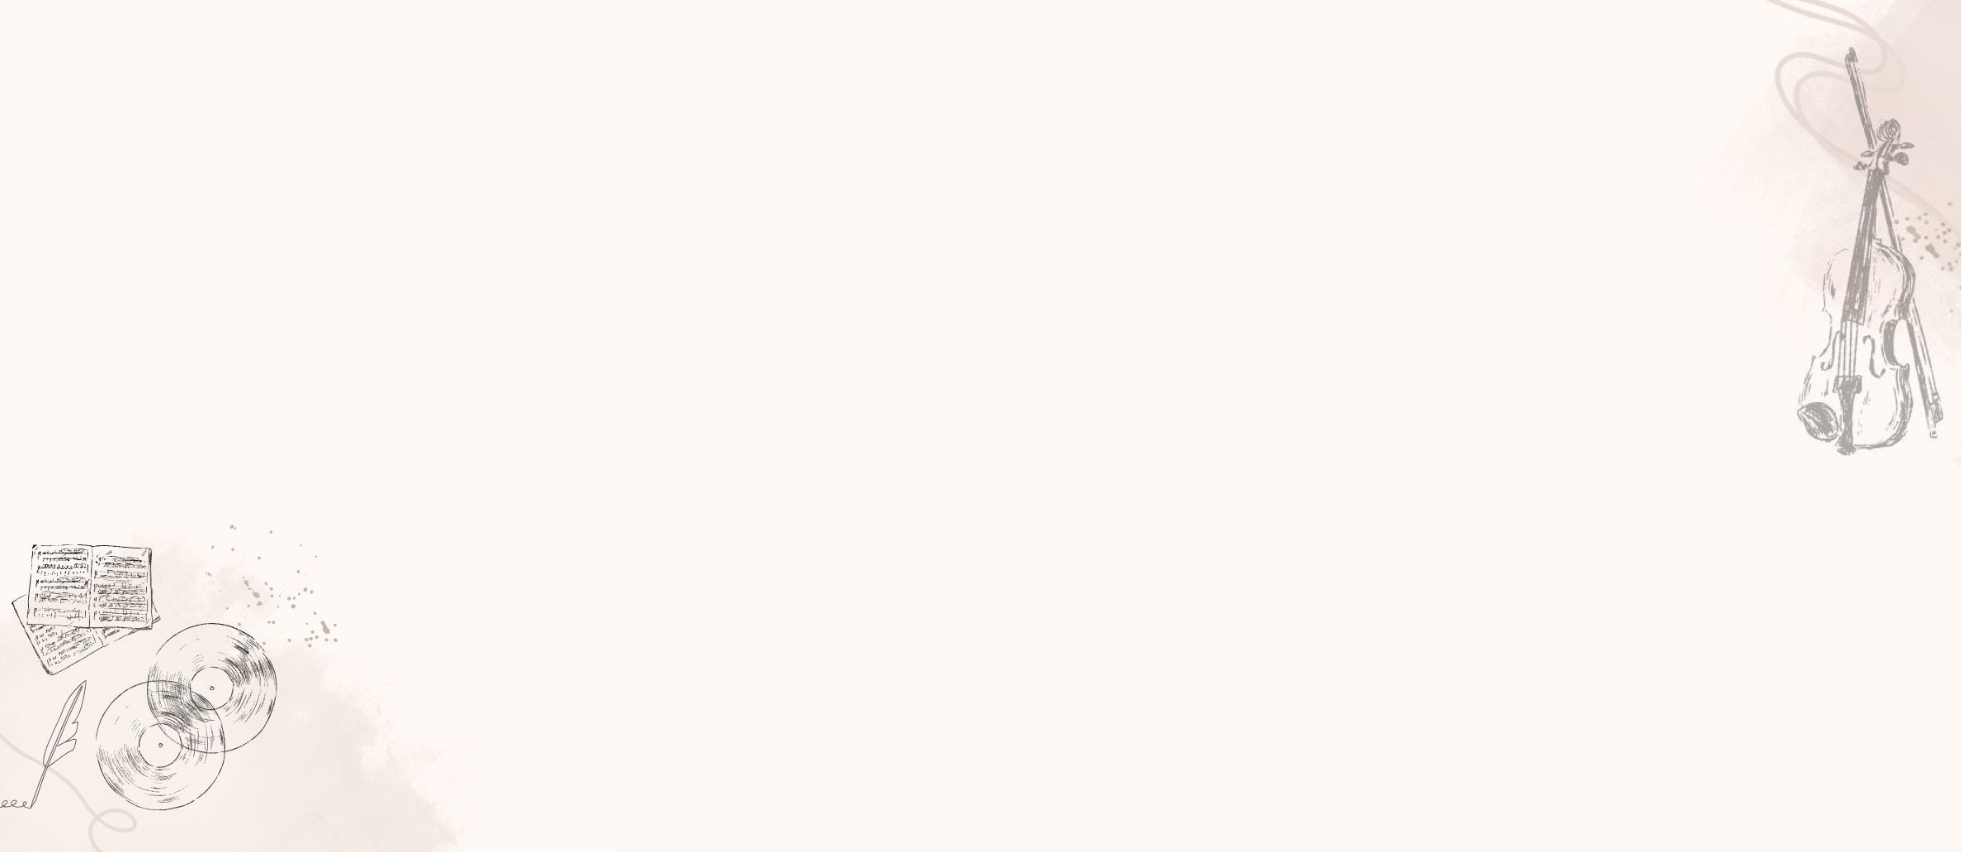
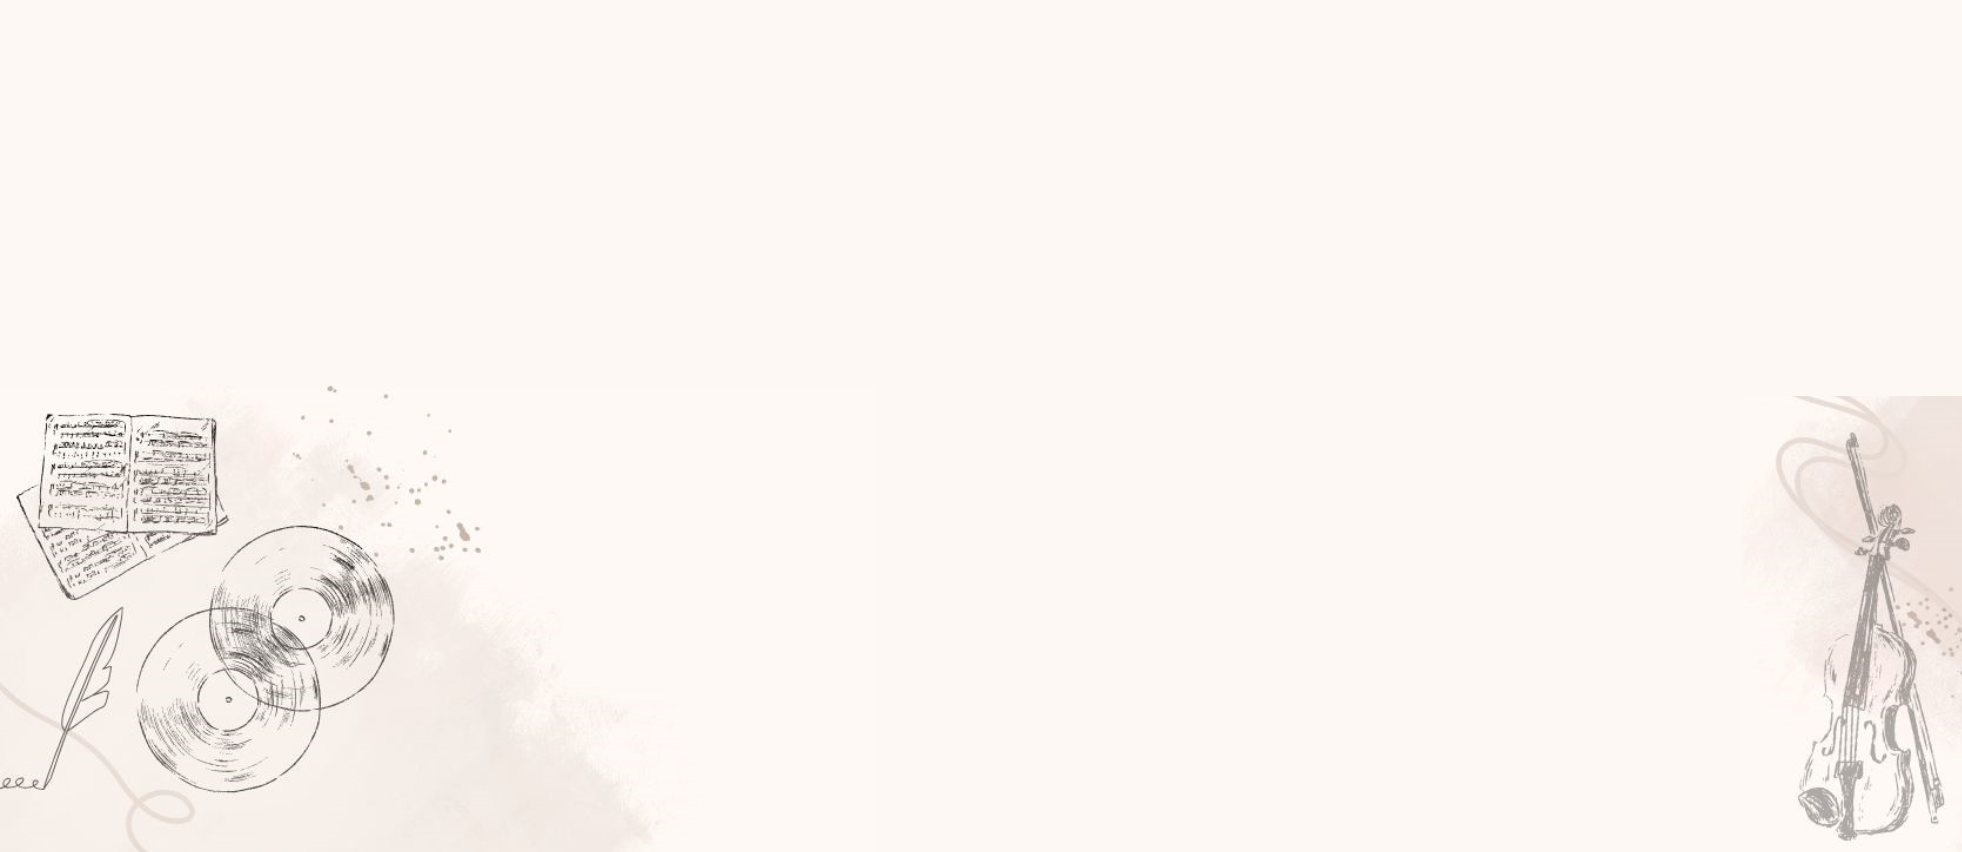
update

Changed region(s): [[0.9016, 0.0, 1.0, 1.0], [0.0, 0.4883, 0.2176, 0.946], [0.2176, 0.6103, 0.2487, 0.6408]]

diff --git a/page3.html b/page3.html
@@ -16,7 +16,7 @@
     </header>
 
     <main> 
-         <img class="bandeau3" src="">
+         <img class="bandeau4" src="bandeau5.png">
         
          <div class="block4">
                 <div class="block2">
